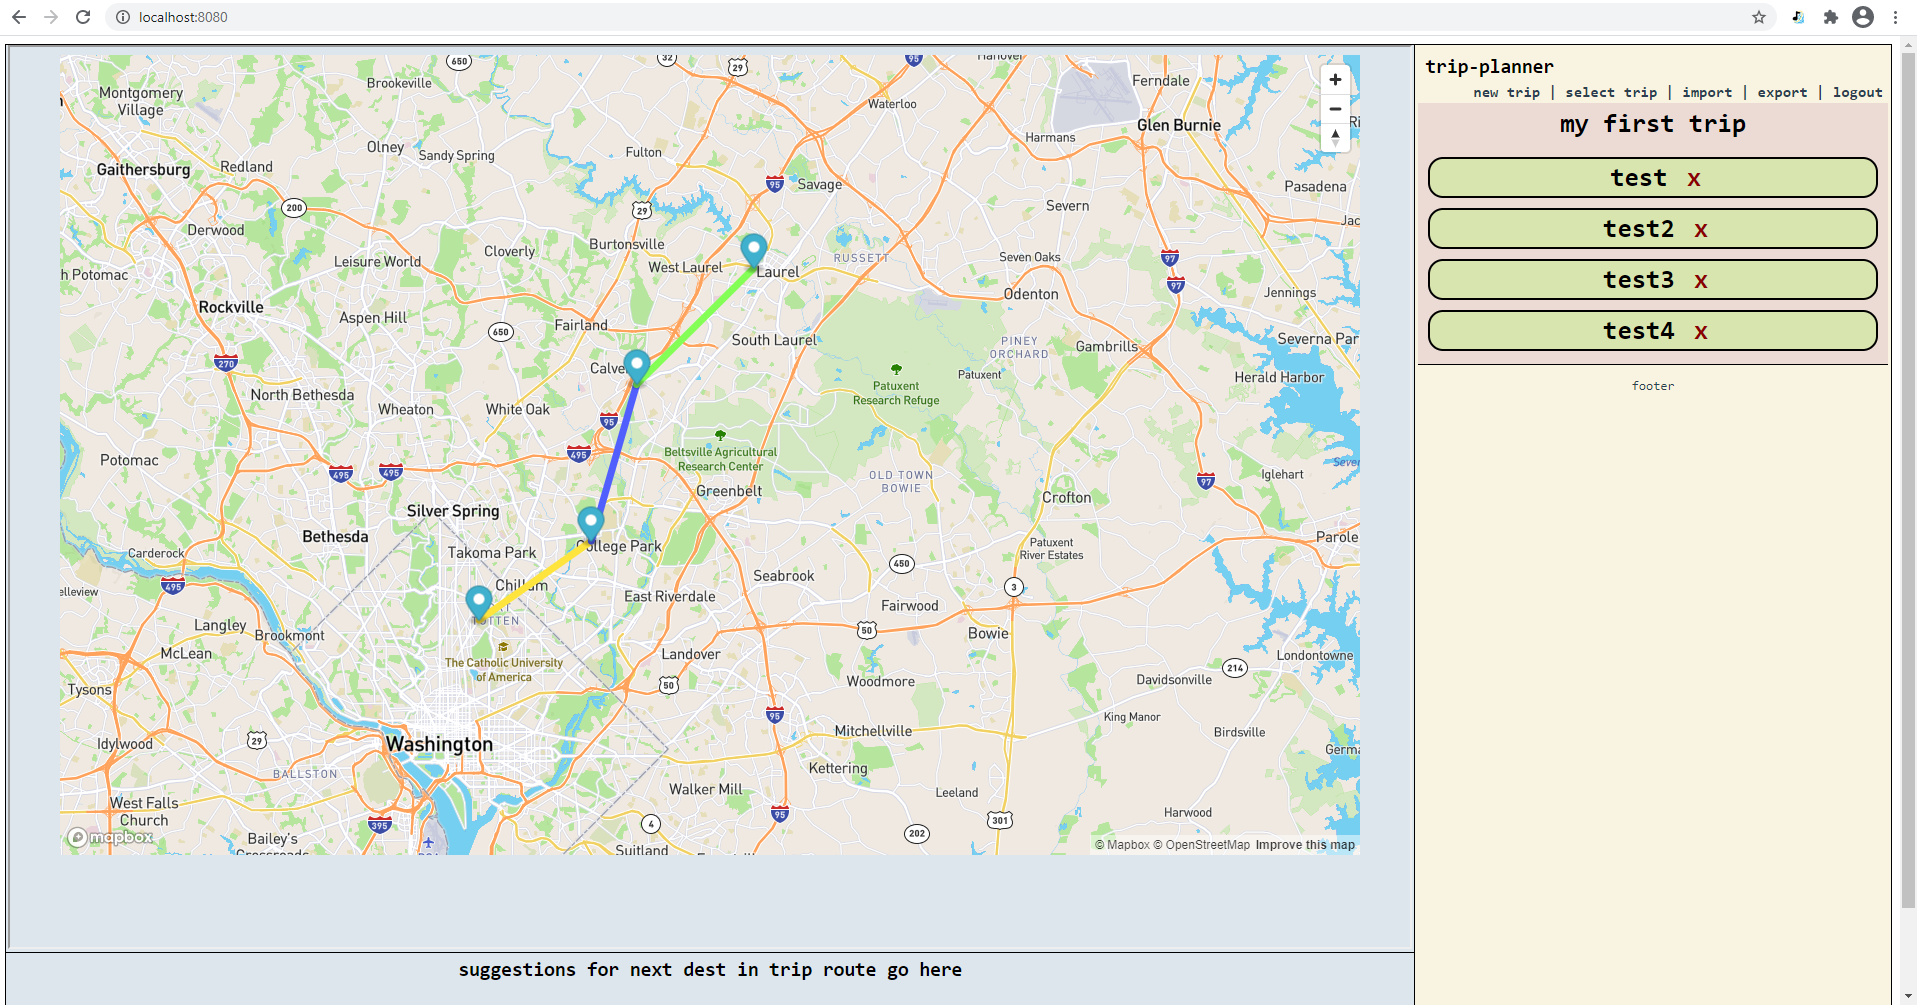
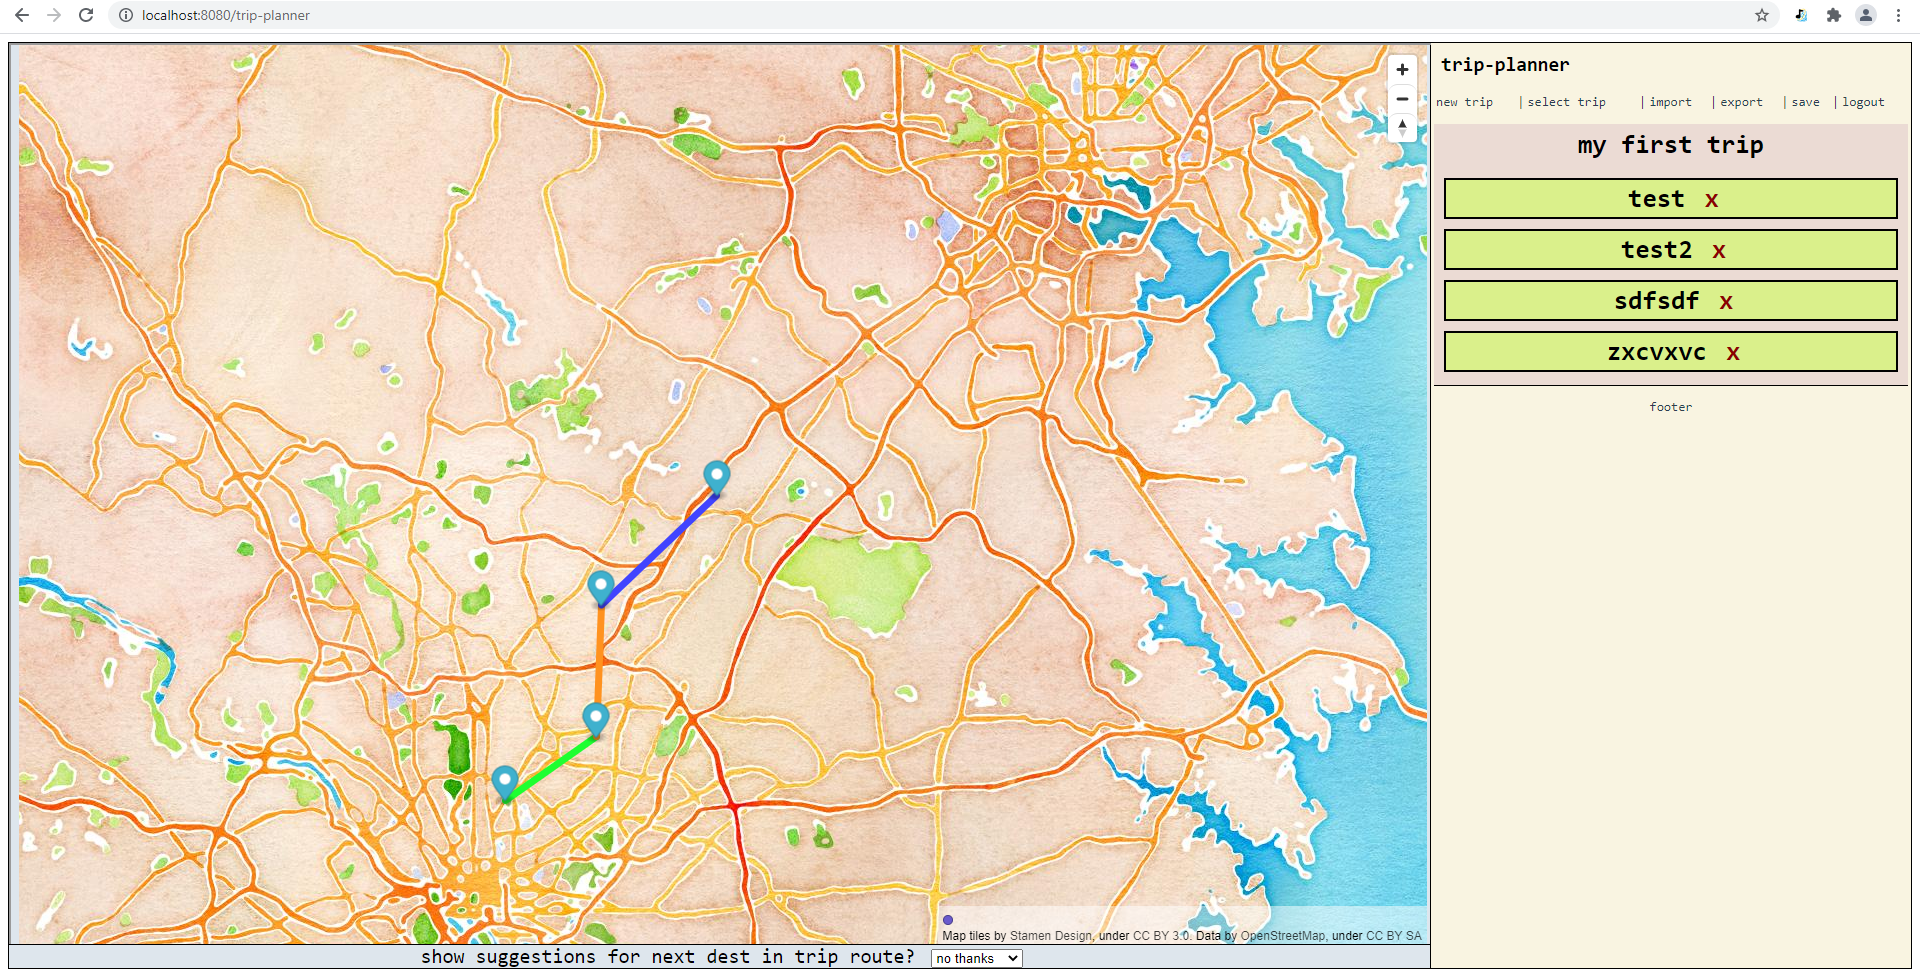
more ui changes and fixed an issue with the edit and upload image buttons

diff --git a/src/components/Destination.vue b/src/components/Destination.vue
@@ -18,23 +18,23 @@
 		
 		<div :id="destination.name + '_content'" class="content">
 			<!-- show from/to dates -->
-			<div :id="destination.name + '_dates'" class="row">
-				<div class="col">
-					<h3> from: </h3>
+			<div :id="destination.name + '_dates'">
+				<div class="row">
 					<Calendar
 						:dest-name="destination.name + '_from_'"
 						:date="destination.fromDate"
 						:is-editing="isEditing"
 						:ref="destination.name + '_fromDate'"
+						:header="'to'"
 					></Calendar>
 				</div>
-				<div class="col">
-					<h3> to: </h3>
+				<div class="row">
 					<Calendar
 						:dest-name="destination.name + '_to_'"
 						:date="destination.toDate"
 						:is-editing="isEditing"
 						:ref="destination.name + '_toDate'"
+						:header="'from'"
 					></Calendar>
 				</div>
 			</div>
@@ -101,10 +101,10 @@
 
 			<p class='latlng'> lat: {{destination.latitude}}, long: {{destination.longitude}} </p>
 
-			<button v-on:click="toggleEdit"> edit </button>
+			<button v-on:click="toggleEdit" v-if="!isEditing"> edit </button>
 
 			<input class="inputFile" type="file" accept="image/*" :id="destination.name + '_importImage'" @change="uploadImage">
-			<button v-on:click="clickInput"> upload image </button>
+			<button v-if="isEditing" v-on:click="clickInput"> upload image </button>
 
 			<button class="editButton"
 					v-if="isEditing"
@@ -151,6 +151,7 @@ export default Vue.extend({
 				dest.style.border = '2px solid #fff';
 			}
 		},
+		
         dehighlightBorder: function(): void {
 			const name = this.destination.name;
 			const dest = document.getElementById(name + '_dest');
@@ -158,6 +159,7 @@ export default Vue.extend({
 				dest.style.border = '2px solid #000';
 			}	
 		},
+		
         toggleVisibility: function(): void {
 			const name = this.destination.name;
 			const content = document.getElementById(name + '_content');
@@ -172,6 +174,7 @@ export default Vue.extend({
 
 			this.expanded = !this.expanded;
 		},
+		
         toggleEdit: function(evt: any): void {
 			// prevent div from closing
 			evt.stopPropagation();
@@ -196,6 +199,7 @@ export default Vue.extend({
 			const notes = document.getElementById(name + '_notes');
 			if(notes !== null) notes.removeAttribute('disabled');
 		},
+		
         removeDestination: function(evt: any): void {
 			// remove a destination
 			// calls a method of the Vue root instance
@@ -207,6 +211,7 @@ export default Vue.extend({
 				this.$root.removeDestination(name);
 			}
 		},
+		
         saveChanges: function(): void {
 			// note: when save is clicked and the data is sent to the root
 			// to update state, the destination name, if edited, will be
@@ -253,6 +258,7 @@ export default Vue.extend({
 
 			this.isEditing = false;
 		},
+		
 		cancelChanges: function(): void {
 			// make sure destination name goes back to being uneditable
 			const name = this.destination.name;
@@ -266,6 +272,7 @@ export default Vue.extend({
 			this.editSnapshot = {};
 			this.isEditing = false;
 		},
+		
         uploadImage: function(evt: any): void {
             const img = new Image();
             const reader = new FileReader();
@@ -286,10 +293,12 @@ export default Vue.extend({
             //read the file as a URL
             reader.readAsDataURL(file);
 		},
+		
         clickInput: function(): void {
 			const inputElement = document.getElementById(this.destination.name + "_importImage");
             inputElement?.click();
 		},
+		
 		enlargeImage: function(evt: any): void {
             const imageDiv = document.createElement('div');
             imageDiv.style.opacity = "0.98";
@@ -311,7 +320,7 @@ export default Vue.extend({
                 document.body.style.overflow = "visible";
             });
 
-			if (document.body.clientHeight < enlargedImage.height ||
+			if(document.body.clientHeight < enlargedImage.height ||
 				document.body.clientWidth < enlargedImage.width) {
 				// reduce size of enlarged image if larger than the page
                 // or rescale using a canvas?
@@ -334,6 +343,7 @@ export default Vue.extend({
 
 			document.body.appendChild(imageDiv);
 		},
+		
 		deleteImage: function(evt: any): void {
 			// get index of image from id
 			let imageIndex = evt.target.id.split("_");
@@ -341,6 +351,7 @@ export default Vue.extend({
 
             this.destination.images.splice(imageIndex, 1);
         },
+		
 		showColorWheel: function(): void {
             const location = document.getElementById(this.destination.name + '_editRouteColor');
 
@@ -445,7 +456,6 @@ export default Vue.extend({
 	}
 
     li {
-        margin: 0 10px 10px;
         color: #000;
         background-color: #daf08b;
     }
@@ -463,7 +473,7 @@ export default Vue.extend({
     .dest {
         padding: 3px;
         border: 2px solid #000;
-        border-radius: 15px;
+        /*border-radius: 15px;*/
         text-align: center;
     }
 
@@ -478,6 +488,10 @@ export default Vue.extend({
     .col {
         flex: 50%;
     }
+	
+	.date {
+		display: inline-block;
+	}
 
     .delete {
         color: #8b0000;

diff --git a/src/components/Calendar.vue b/src/components/Calendar.vue
@@ -1,6 +1,7 @@
 <template>
     <div>
         <div class="calendar" v-if="isEditing">
+			<p> {{header}}: </p>
             <input :id="destName + 'month'" type="text" size="2" maxlength="2" placeholder="mm" />
             <p> / </p>
             <input :id="destName + 'day'" type="text" size="2" maxlength="2" placeholder="dd" />
@@ -8,7 +9,7 @@
             <input :id="destName + 'year'" type="text" size="4" maxlength="4" placeholder="yyyy" />
         </div>
         <div class="calendar" v-if="!isEditing">
-            <h3>{{date}}</h3>
+            <h3>{{header}}:  {{date.length === 2 ? "" : date.replaceAll("-", "/")}} (MM/DD/YYYY)</h3>
         </div>
     </div>
 </template>
@@ -24,7 +25,8 @@ export default Vue.extend({
     props: {
         destName: { required: true, type: String },
         isEditing: { required: true, type: Boolean },
-        date: { required: true, type: String }
+        date: { required: true, type: String },
+		header: { required: true, type: String },
     },
     methods: {
         getDateInfo: function(): {month: string; day: string; year: string} {
